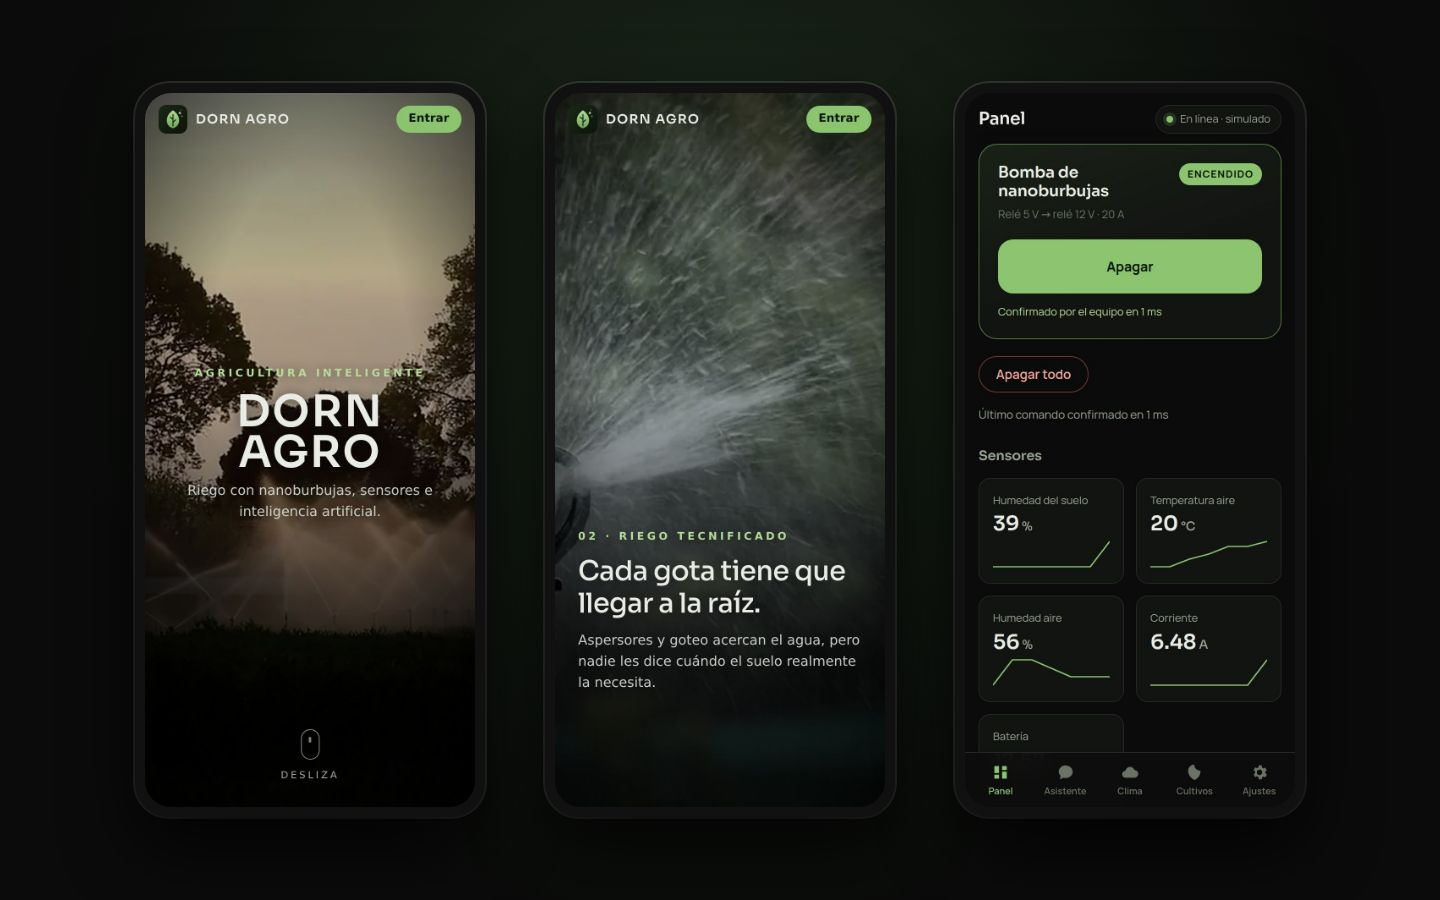
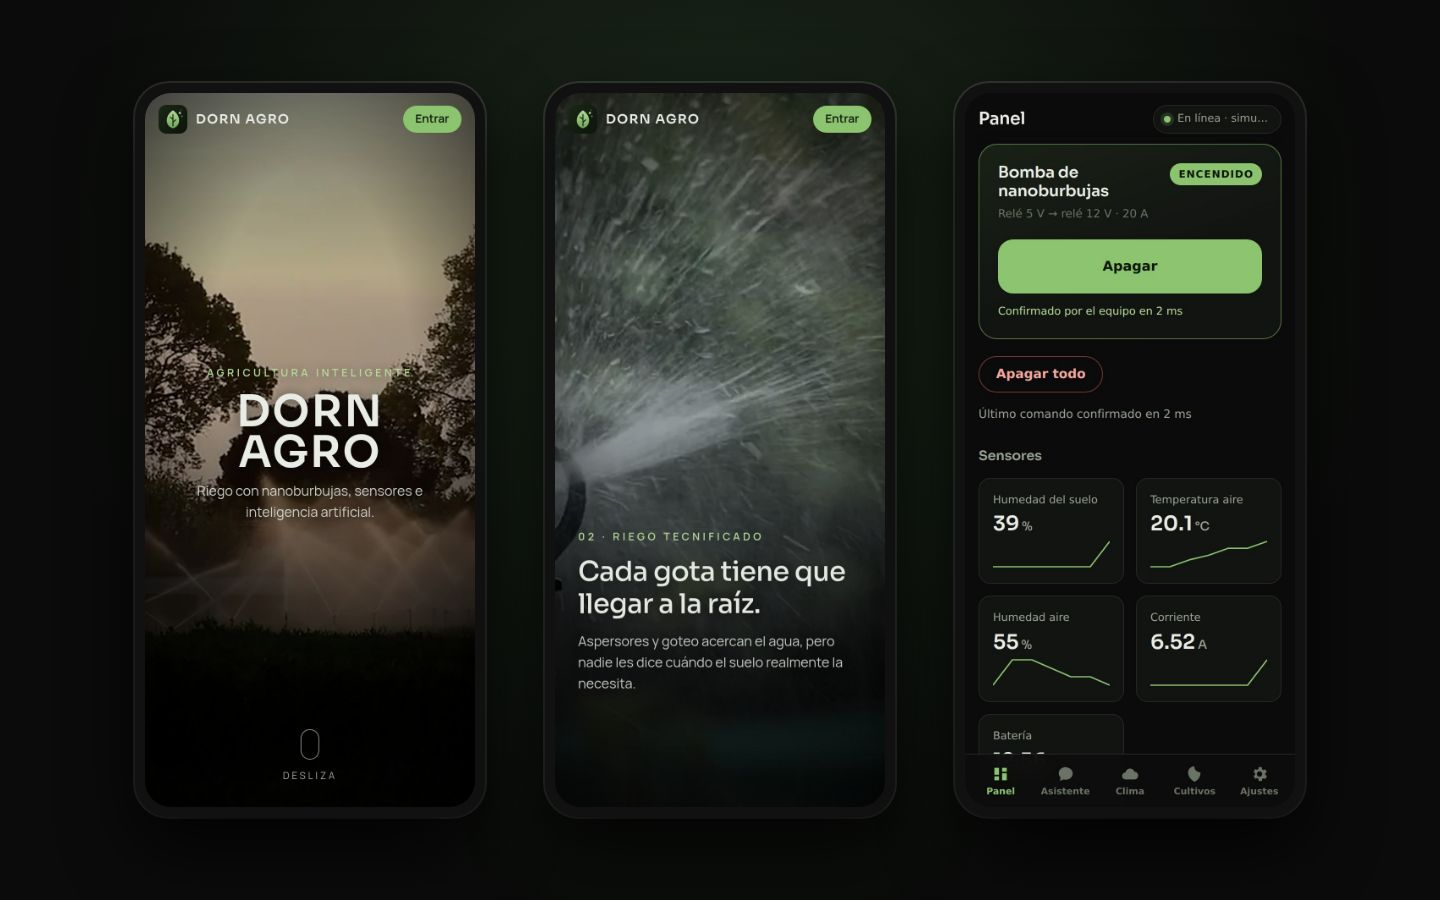
Plan de trabajo para mañana y script reproducible del portafolio
- docs/plan-manana.md: demo de DORN AGRO (simulador automático en modo demo),
  seguridad del equipo real (MQTT), actualización del portafolio y pendientes de venta
- npm run portafolio: regenera las capturas del proyecto destacado y la galería de
  Fiverr desde el sitio de DORN AGRO (avisa si el panel no está en línea o faltan fuentes)

diff --git a/docs/plan-manana.md b/docs/plan-manana.md
@@ -1,0 +1,59 @@
+# Plan de trabajo — 27 de septiembre de 2026
+
+Objetivo del día: dejar la **demo de DORN AGRO** lista para mostrar a clientes y actualizar con ella el portafolio de las tiendas.
+
+## 0. Antes de empezar (10 min)
+
+- [ ] Abrir la sesión con **acceso de escritura** a `JoakoVRD-Designer/dorn-agro` (ayer solo había lectura).
+- [ ] Confirmar la **dirección publicada** de DORN AGRO (se asumió `https://joakovrd-designer.github.io/dorn-agro/`; se cambia en `config/stores.json` → `portfolio[0].url`).
+- [ ] Ubicar el **firmware del ESP32** (¿`DORN-CODE`?) y el script `tools/crear-secuencia.mjs` (el código lo menciona pero no está en `dorn-agro`).
+- [ ] Decidir si se prueba con **la placa real** o solo con el simulador.
+
+## 1. Demo de DORN AGRO (prioridad)
+
+**Problema actual:** “Probar sin cuenta (demo)” abre un panel vacío (“Sin señal”, sensores en “—”), porque la demo se conecta a un broker MQTT público esperando un equipo real. Con el simulador integrado activado se ve perfecta, pero viene apagado.
+
+- [ ] En modo demo, usar automáticamente **transporte local + simulador integrado** (`auth.js` → `entrarDemo`, `app.js` → `conectarEquipo`), sin tocar los ajustes guardados de los usuarios con cuenta.
+- [ ] Aviso visible: “Estás viendo una demostración con un equipo simulado” + botón para crear cuenta.
+- [ ] Recorrido que se entienda solo: el suelo se seca → aparece la alerta → el agente de riego enciende la bomba → se confirma. Que funcione **sin claves de IA** (IA base).
+- [ ] Subir la versión del service worker (`sw.js`: `dornagro-v6` → `v7`) en cada publicación.
+
+**Cómo verificamos que quedó bien**
+- Panel “En línea · simulado” en menos de 3 s, en escritorio y en celular (390 px), sin errores en la consola.
+- Encender/Apagar confirma en el momento; los gráficos se mueven.
+- Probado en un navegador limpio (sin datos guardados) y con la app ya instalada, para confirmar que se actualiza.
+
+## 2. Seguridad del equipo real (antes de conectar una placa ante clientes)
+
+**Problema:** broker público (`broker.hivemq.com`) + ID de equipo fijo (`dorn-agro-7k3q`) + sin contraseña ⇒ cualquiera que conozca el ID puede enviar órdenes a la bomba, y todos los visitantes comparten ese “equipo”.
+
+- [ ] ID único por equipo (no escrito en el código público).
+- [ ] Broker con usuario/contraseña y permisos por equipo (p. ej. HiveMQ Cloud o EMQX Serverless, ambos con plan gratis).
+- [ ] No poner contraseñas del broker en `config.js` (es público): credenciales por usuario o reglas que limiten cada cuenta a su equipo.
+- [ ] **App y firmware se cambian juntos** (mismo formato de temas y mensajes); probar primero con el simulador.
+- [ ] Mantener las protecciones locales del firmware (sobrecorriente, batería baja, tiempo máximo de bombeo): la seguridad física no debe depender de internet.
+
+## 3. Actualizar el portafolio (15 min, después del punto 1)
+
+```bash
+cd dorn-agro && python3 -m http.server 8765        # o usa la dirección publicada
+cd Conexion-Servicio && npm run portafolio -- --sitio http://127.0.0.1:8765/
+```
+
+- [ ] Revisar las 6 imágenes regeneradas (`public/portafolio/` y `portafolio/fiverr/`). El script avisa si el panel no aparece “En línea” o si no cargaron las fuentes.
+- [ ] `npm test` y subir los cambios.
+
+## 4. Pendientes para empezar a vender (si queda tiempo)
+
+- [ ] `npm run simulacion` con `ANTHROPIC_API_KEY` real para ver la calidad de las webs que genera Claude.
+- [ ] Emails (SMTP de Gmail con contraseña de aplicación) y `PUBLIC_URL`.
+- [ ] Publicar el sistema en Render (`render.yaml`).
+- [ ] Fiverr: crear los gigs (textos con `/admin/tiendas` → “Generar textos del gig”) y subir la galería de `portafolio/fiverr/`.
+- [ ] Configurar PayPal.me y Discord en `config/stores.json`.
+
+## Reglas a tener en mente durante el día
+
+- Cada cambio se prueba en un **navegador real, en escritorio y en celular**, con la consola sin errores.
+- Nunca subir claves ni contraseñas a los repositorios (`config.js` de DORN AGRO es público; el `GOOGLE_CLIENT_ID` sí puede ser público).
+- En Fiverr: sin enlaces externos en la descripción ni en los mensajes; el portafolio se muestra con las imágenes de la galería.
+- Si cambia la demo, se regenera el portafolio (punto 3).

diff --git a/README.md b/README.md
@@ -111,6 +111,7 @@ Tu proyecto **DORN AGRO** está configurado como proyecto destacado (`config/sto
 
 - Revisa que `url` apunte a la dirección real donde está publicado (por defecto `https://joakovrd-designer.github.io/dorn-agro/`).
 - **Galería para tus gigs de Fiverr**: `portafolio/fiverr/` tiene 3 imágenes de 1280×769 (el tamaño recomendado por Fiverr) hechas con capturas reales de DORN AGRO. Súbelas en *Gig → Gallery*. Fiverr no permite enlaces externos en la descripción: la galería es donde se muestra el portafolio.
+- **Regenerar las imágenes** cuando cambie la demo: sirve el sitio de DORN AGRO y ejecuta `npm run portafolio -- --sitio http://127.0.0.1:8765/` (usa Google Chrome instalado o `CHROME_PATH`).
 - Para agregar más proyectos, suma entradas a `portfolio` (el que tenga `"featured": true` es el que se muestra).
 
 ## Cobrar sin comisión de plataforma
